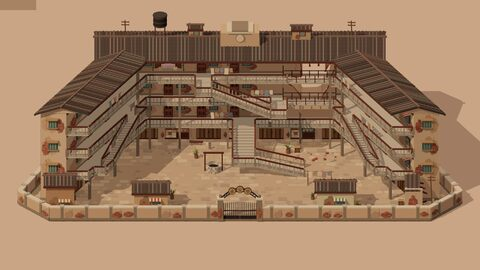
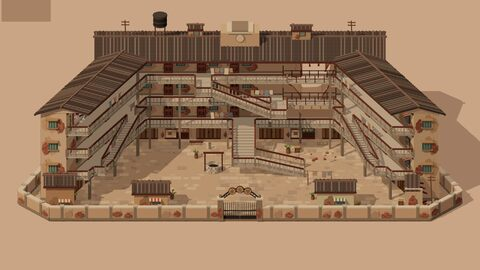
Move the Kung Fu Hustle resident to the west wing window (#78)

diff --git a/areas/kung-fu-hustle/resident.js b/areas/kung-fu-hustle/resident.js
@@ -1,93 +1,189 @@
-import { floorRise, gallery } from './layout.js';
+import { floorRise, gallery, stories, wingSlope, wingX } from './layout.js';
 import { ink } from './masonry.js';
 
-const x = -9.52;
-const z = gallery.rear;
-const sill = floorRise * 3 + .80;
-const head = sill + 2.07;
-const left = x - 1.03;
-const right = x + 1.03;
+const roofPoint = { x: -19.98, y: 13.51, z: 5.76 };
+const wallX = -gallery.outer;
+const z = roofPoint.z;
+const sill = floorRise * (stories - 1) + .80;
+const lintel = Math.min(floorRise * stories - .35, roofPoint.y - .78);
+const halfWidth = 1.03;
+const openingHeight = lintel - sill;
 
 export const residentWindow = {
-  aperture: [[left, sill], [right, sill], [right, head], [left, head]],
+  roofPoint,
+  aperture: [[-z - halfWidth, sill], [-z + halfWidth, sill],
+    [-z + halfWidth, lintel], [-z - halfWidth, lintel]],
 };
 
 export function buildResidentWindow(kit, random) {
-  const { box, oval, leaf, beam, drum } = kit;
-  const frame = kit.wall(x, z, 0);
-  box(0x4d4037, x, (sill + head) / 2, z - 1.14, 2.08, 2.09, .15);
-  frame(ink.stone, 0, sill - .044, .125, 2.31, .17, .54);
-  frame(ink.wood, 0, head + .031, .043, 2.13, .115, .18);
+  const { wall, beam, leaf } = kit;
+  const frame = wall(wallX, z, Math.PI / 2);
+  frame(0x4d4037, 0, sill + openingHeight / 2 - .36, -1.14, 2.12, openingHeight + .74, .15);
+  frame(0x72614e, 0, sill - .823, -.56, 2.07, .045, 1.17);
+  frame(ink.stone, 0, sill - .046, .106, 2.30, .17, .55);
+  frame(ink.wood, 0, lintel + .032, .033, 2.15, .113, .17);
   for (const side of [-1, 1]) {
-    frame(ink.wood, side * 1.015, sill + 1.00, .034, .13, 2.03, .16);
-    const shutter = kit.wall(x + side * 1.39, z + .235, -side * .55);
-    shutter(0x815139, 0, sill + 1.01, 0, .84, 1.91, .11);
+    frame(ink.wood, side * 1.015, sill + openingHeight / 2, .034, .118, openingHeight, .158);
+    const shutter = wall(wallX + .25, z - side * 1.42, Math.PI / 2 - side * .49);
+    shutter(0x815139, 0, sill + openingHeight / 2, 0, .85, openingHeight - .11, .11);
     for (let plank = -2; plank <= 2; plank++) {
-      shutter(plank % 2 ? 0x895a41 : 0x76513c, plank * .151, sill + 1.01, .05, .145, 1.73, .031);
+      shutter(plank % 2 ? 0x895a41 : 0x76513c, plank * .151, sill + openingHeight / 2, .064,
+        .142, openingHeight - .28, .034);
     }
-    for (const y of [.26, 1.68]) shutter(ink.wood, 0, sill + y, .075, .83, .087, .069);
-    beam(0x555a3a, x + side * 2.04, sill - .48, z + .092, x + side * 1.95, head - .22, z + .100, .031);
+    for (const dy of [.27, openingHeight - .28]) {
+      shutter(ink.wood, 0, sill + dy, .097, .83, .084, .055);
+      frame(ink.iron, side * 1.065, sill + dy, .12, .103, .084, .056);
+    }
+    const vineZ = z - side * 1.89;
+    beam(0x555a3a, wallX + .095, sill - .35, vineZ, wallX + .095, lintel - .23, vineZ + .17 * side, .025);
     for (let i = 0; i < 12; i++) {
-      const px = x + side * (1.91 + random() * .23);
-      const py = sill - .38 + i * .18;
-      leaf(i % 2 ? 0x64784f : 0x4d633f, px, py, z + .082 + random() * .055,
-        .16 + random() * .15, .17, .079, .35, 0, side * .65);
+      leaf(i % 2 ? 0x64784f : 0x4d633f, wallX + .095 + random() * .05, sill - .29 + i * .17,
+        vineZ + (random() - .48) * .32, .13, .15, .22, random() * Math.PI, 0, side * .55);
     }
   }
+}
 
-  // The wash line is mounted to the stone outside the shutters.
-  for (const side of [-1, 1]) {
-    beam(ink.wood, x + side * 1.66, sill + .04, z + .08, x + side * 1.37, sill + .40, z + .69, .075);
+function robeGeometry(THREE) {
+  const rings = [
+    [-.62, -.53, .375, .24], [-.37, -.53, .398, .251], [-.12, -.48, .377, .243],
+    [.14, -.38, .321, .236], [.31, -.22, .325, .252], [.49, -.011, .361, .251],
+    [.63, .09, .317, .214], [.71, .13, .162, .138],
+  ];
+  const segments = 16;
+  const vertices = [];
+  const faces = [];
+  for (const [i, [y, z, width, depth]] of rings.entries()) {
+    for (let j = 0; j < segments; j++) {
+      const a = j * Math.PI * 2 / segments;
+      const pleat = 1 + .038 * Math.cos(5 * a) * (1 - i / rings.length);
+      vertices.push(Math.cos(a) * width * pleat, y, z + Math.sin(a) * depth * pleat);
+      if (i === 0) continue;
+      const prev = (i - 1) * segments + j;
+      const next = (i - 1) * segments + (j + 1) % segments;
+      faces.push(prev, prev + segments, next, next, prev + segments, next + segments);
+    }
   }
-  beam(0xa58e70, x - 1.37, sill + .40, z + .69, x + 1.37, sill + .43, z + .69, .022);
-  for (const [offset, height, paint] of [[-1.02, .49, 0xcb9d9b], [.94, .42, 0xd5c7a9]]) {
-    frame(paint, offset, sill + .40 - height / 2, .71, .46, height, .039, -.06, .06);
-    frame(ink.brass, offset + .08, sill + .414, .743, .035, .115, .035);
+  return modelGeometry(THREE, vertices, faces);
+}
+
+function modelGeometry(THREE, vertices, faces) {
+  const geometry = new THREE.BufferGeometry();
+  geometry.setAttribute('position', new THREE.Float32BufferAttribute(vertices, 3));
+  geometry.setIndex(faces);
+  geometry.computeVertexNormals();
+  return geometry;
+}
+
+function buildBra(THREE, kit, hands) {
+  const fabric = 0xe5cfc1;
+  const binding = 0xb18388;
+  const { beam, oval } = kit;
+  const vertices = [];
+  const faces = [];
+  const segments = 14;
+  const bust = .83;
+
+  for (const [side, hand] of hands) {
+    const centerX = side * .305;
+    const centerY = .11 + side * .046;
+    const cup = vertices.length / 3;
+    const edge = [];
+    vertices.push(centerX, centerY, bust + .25);
+    for (const ring of [.55, 1]) {
+      for (let i = 0; i < segments; i++) {
+        const a = i * Math.PI * 2 / segments;
+        const px = centerX + Math.cos(a) * .299 * ring;
+        const py = centerY + (.211 * Math.sin(a) + side * .048 * Math.cos(a)) * ring;
+        const pz = bust + .25 * (1 - ring * ring);
+        vertices.push(px, py, pz);
+        if (ring === 1) edge.push([px, py, pz + .010]);
+      }
+    }
+    for (let i = 0; i < segments; i++) {
+      const next = (i + 1) % segments;
+      const a = cup + 1 + i;
+      const b = cup + 1 + next;
+      faces.push(cup, a, b, a, a + segments, b, b, a + segments, b + segments);
+      beam(binding, ...edge[i], ...edge[next], .020);
+    }
+
+    const top = [side * .46, centerY + .194, bust + .045];
+    const outer = [side * .59, centerY - .041, bust];
+    const fold = [side * .765, hand[1] - .15, hand[2] + .067];
+    beam(fabric, ...top, ...hand, .048);
+    beam(fabric, ...outer, ...fold, .066);
+    beam(binding, ...fold, ...hand, .041);
   }
 
+  kit.mesh('Bra cups', fabric, modelGeometry(THREE, vertices, faces));
+  oval(binding, 0, .097, bust + .034, .154, .089, .068, 0, 0, .12);
+}
+
+export function buildResident(THREE, kit) {
+  const { box, oval, beam, drum } = kit;
   const robe = 0xd3adba;
-  const cuff = 0xe0c8c7;
+  const cuff = 0xe3c7ca;
   const skin = 0xc39173;
   const hair = 0x31252b;
-  const faceZ = z + .400;
+  const yaw = Math.atan2(1, wingSlope);
+  const hands = [[-1, [-.91, .46, .754]], [1, [.91, .69, .76]]];
 
-  function arm(paint, a, b, width) {
-    const [ax, ay, az] = a;
-    const [bx, by, bz] = b;
-    const dx = bx - ax;
-    const dz = bz - az;
-    const dy = by - ay;
-    const flat = Math.hypot(dx, dz);
-    oval(paint, x + (ax + bx) / 2, sill + (ay + by) / 2, z + (az + bz) / 2,
-      Math.hypot(flat, dy) + .12, width, width, Math.atan2(-dz, dx), 0, Math.atan2(dy, flat));
-  }
+  kit.frame(wingX(-1, wallX, z), sill, z, yaw, () => {
+    kit.mesh('Resident full-length robe', robe, robeGeometry(THREE));
+    for (const side of [-1, 1]) {
+      const px = side * .16;
+      oval(skin, px, -.670, -.52, .15, .22, .18);
+      oval(0x674c48, px, -.747, -.47, .18, .10, .31);
+    }
 
-  oval(robe, x, sill + .40, z + .084, .79, .91, .52, 0, -.25, -.065);
-  oval(cuff, x + .026, sill + .66, z + .272, .51, .18, .14, 0, 0, -.17);
-  for (const [i, y] of [.487, .387, .281].entries()) {
-    oval(0xe7cccd, x + .043 - i * .014, sill + y, z + .346 - i * .01, .038, .038, .024);
-  }
-  oval(skin, x + .024, sill + .77, z + .204, .215, .25, .226);
-  for (const side of [-1, 1]) {
-    arm(robe, [side * .28, .60, .137], [side * .62, .45, .41], .225);
-    arm(skin, [side * .61, .46, .40], [side * .86, .40, .69], .131);
-    oval(cuff, x + side * .599, sill + .460, z + .411, .143, .177, .146);
-    oval(skin, x + side * .91, sill + .397, z + .69, .16, .11, .16);
-  }
+    for (const [a, b] of [
+      [[-.225, .628, .255], [0, .537, .235]],
+      [[0, .537, .235], [.192, .669, .255]],
+      [[0, .537, .235], [.017, .443, .246]],
+    ]) beam(cuff, ...a, ...b, .035);
+    for (const [i, y] of [.455, .370, .291].entries()) {
+      oval(cuff, .016, y, .239 - i * .082, .036, .036, .033);
+    }
+    oval(skin, .024, .767, .207, .213, .27, .225);
 
-  oval(hair, x + .018, sill + 1.188, z + .181, .657, .67, .57);
-  oval(skin, x + .027, sill + 1.116, z + .303, .439, .521, .371);
-  for (const side of [-1, 1]) {
-    oval(skin, x + side * .217, sill + 1.10, z + .334, .092, .145, .119);
-    oval(0x3d2b28, x + side * .092 + .024, sill + 1.158, faceZ + .064, .060, .027, .033);
-    box(hair, x + side * .092 + .024, sill + 1.211, faceZ + .066, .079, .017, .023, 0, 0, side * -.16);
-  }
-  oval(0xbd8266, x + .028, sill + 1.111, faceZ + .076, .089, .111, .087);
-  oval(0x88535a, x + .032, sill + 1.026, faceZ + .086, .105, .025, .028, 0, 0, -.11);
-  for (const [i, [px, py]] of [[-.28, 1.12], [-.29, 1.30], [-.22, 1.44], [-.055, 1.48],
-    [.117, 1.47], [.25, 1.37], [.30, 1.21]].entries()) {
-    const color = [0x993c4e, 0xb5914d, 0x8c596e][i % 3];
-    drum(color, x + px, sill + py, z + .352, .142, .104, .142, i % 2 ? .22 : -.22, Math.PI / 2);
-    drum(hair, x + px, sill + py, z + .405, .069, .022, .069, i % 2 ? .22 : -.22, Math.PI / 2);
-  }
+    function arm(paint, a, b, width) {
+      const dx = b[0] - a[0], dy = b[1] - a[1], dz = b[2] - a[2];
+      const run = Math.hypot(dx, dz);
+      oval(paint, (a[0] + b[0]) / 2, (a[1] + b[1]) / 2, (a[2] + b[2]) / 2,
+        Math.hypot(run, dy) + .132, width, width, Math.atan2(-dz, dx), 0, Math.atan2(dy, run));
+    }
+
+    for (const [side, hand] of hands) {
+      const elbow = [side * .592, hand[1] + .042, .404];
+      arm(robe, [side * .267, .615, .142], elbow, .225);
+      arm(skin, elbow, hand, .126);
+      oval(cuff, ...elbow, .145, .178, .151);
+      oval(skin, ...hand, .148, .107, .13, 0, 0, side * .22);
+      oval(0xba8666, hand[0] - side * .040, hand[1] - .018, hand[2] + .053, .071, .052, .061);
+    }
+
+    oval(hair, .018, 1.187, .199, .659, .668, .561);
+    oval(skin, .027, 1.115, .315, .445, .518, .37);
+    for (const side of [-1, 1]) {
+      oval(skin, side * .220, 1.096, .344, .091, .144, .112);
+      oval(0xcaa368, side * .233, 1.042, .402, .041, .045, .028);
+      const eyeX = .026 + side * .091;
+      oval(0x816154, eyeX, 1.161, .480, .084, .040, .045, 0, 0, side * -.09);
+      oval(0xe5c4aa, eyeX, 1.158, .498, .067, .027, .023);
+      oval(0x352725, eyeX - .007, 1.154, .508, .030, .026, .013);
+      oval(hair, eyeX + .004, 1.216, .476, .095, .018, .029, 0, 0, side * -.22);
+    }
+    oval(0xbd8266, .031, 1.108, .486, .088, .110, .093);
+    oval(0x88535a, .025, 1.025, .491, .116, .029, .037, 0, 0, -.122);
+    beam(0xe8dcbd, -.020, 1.026, .508, -.205, .990, .582, .031);
+    beam(0x6f655f, -.205, .990, .582, -.238, .984, .595, .028);
+    for (const [i, [x, y]] of [[-.28, 1.12], [-.29, 1.30], [-.22, 1.44], [-.055, 1.48],
+      [.117, 1.47], [.25, 1.37], [.30, 1.21]].entries()) {
+      const paint = [0x993c4e, 0xb5914d, 0x8c596e][i % 3];
+      drum(paint, x, y, .365, .142, .104, .142, i % 2 ? .22 : -.22, Math.PI / 2);
+      drum(hair, x, y, .419, .069, .022, .069, i % 2 ? .22 : -.22, Math.PI / 2);
+    }
+
+    buildBra(THREE, kit, hands);
+  });
 }

diff --git a/areas/kung-fu-hustle/scene.js b/areas/kung-fu-hustle/scene.js
@@ -2,7 +2,7 @@ import { seededRandom } from '../../core/random.js';
 import { damagedRearWall } from './damage.js';
 import { courtyard } from './courtyard.js';
 import { marketRow } from './market.js';
-import { buildResidentWindow } from './resident.js';
+import { buildResident, buildResidentWindow, residentWindow } from './resident.js';
 import { floorRise, gallery, stair, stories, wingX } from './layout.js';
 import { crack, exposedBrick, ink, laundry, masonryKit, roof } from './masonry.js';
 
@@ -35,7 +35,7 @@ function doorsAndWindows(face, x, y, hasAwning, hasDoor) {
   }
 }
 
-function apartmentFacade(draw, span, bays, random, damaged = false) {
+function apartmentFacade(draw, span, bays, random, { damaged = false, occupiedWindow = false } = {}) {
   const spacing = span / bays;
   for (let level = 1; level < stories; level++) {
     const y = level * floorRise;
@@ -46,7 +46,8 @@ function apartmentFacade(draw, span, bays, random, damaged = false) {
     }
     for (let bay = 0; bay < bays; bay++) {
       const center = -span / 2 + (bay + .5) * spacing;
-      if (damaged && (center > 4.1 || (level === stories - 1 && bay === 1))) continue;
+      if (damaged && center > 4.1) continue;
+      if (occupiedWindow && level === stories - 1 && bay === 0) continue;
       draw.chip(bay % 2 ? 0x9d826c : 0xab8c72, center + .29, y + 1.03, .012, spacing * .86, 2.08, .11);
       if ((bay + level) % 3 !== 1) {
         exposedBrick(draw, center + (bay % 2 ? 1.55 : -.40), y + .78 + random() * .32,
@@ -70,8 +71,7 @@ function tenement(kit, layout, random) {
   const wingsZ = -1;
   damagedRearWall(kit, layout, height, random);
   marketRow(kit, layout, { x: 0, z: gallery.rear, yaw: 0, span: 37.5, bays: 9, depth: 4.3 }, random);
-  buildResidentWindow(kit, random);
-  apartmentFacade(wall(0, gallery.rear, 0), gallery.outer * 2, 7, random, true);
+  apartmentFacade(wall(0, gallery.rear, 0), gallery.outer * 2, 7, random, { damaged: true });
   for (const x of [-11.95, -8, -1.60, 8, 11.95]) {
     const postHeight = x === -1.60 ? height : floorRise * (x === 8 ? 2 : 3) - .09;
     box(ink.band, x, postHeight / 2, -7.59, .28, postHeight, .30);
@@ -95,7 +95,14 @@ function tenement(kit, layout, random) {
   for (const side of [-1, 1]) {
     kit.gable(ink.cream, side * 18.75, height - .04, -11.65, 8.8, 1.33, .13, -side * Math.PI / 2);
     kit.wing(side, () => {
-      box(side > 0 ? 0xc3a88b : 0xbba189, side * sideX, (height + floorRise) / 2, wingsZ, 3.4, height - floorRise, 19);
+      if (side < 0) {
+        kit.extrude('West wing wall', 0xbba189,
+          [[-gallery.front, floorRise], [-gallery.rear, floorRise], [-gallery.rear, height], [-gallery.front, height]],
+          3.4, -18.75, 0, 0, Math.PI / 2, [residentWindow.aperture]);
+        buildResidentWindow(kit, random);
+      } else {
+        box(0xc3a88b, sideX, (height + floorRise) / 2, wingsZ, 3.4, height - floorRise, 19);
+      }
       const yaw = -side * Math.PI / 2;
       marketRow(kit, layout, { x: side * gallery.outer, z: wingsZ, yaw, span: 19, bays: 4, depth: 3.4, side }, random);
       layout.addBarrier((x, z, radius, feet) => {
@@ -103,7 +110,7 @@ function tenement(kit, layout, random) {
         return feet >= floorRise && feet < height && z >= gallery.rear - radius && z <= gallery.front + radius &&
           wallX >= gallery.outer - radius && wallX <= 18.75 + radius;
       });
-      apartmentFacade(wall(side * gallery.outer, wingsZ, -side * Math.PI / 2), 19, 4, random);
+      apartmentFacade(wall(side * gallery.outer, wingsZ, -side * Math.PI / 2), 19, 4, random, { occupiedWindow: side < 0 });
       const outer = wall(side * 18.75, wingsZ, side * Math.PI / 2);
       for (const z of [-6.4, -1.9, 3.1, 6.4]) {
         exposedBrick(outer, z, 1.9 + random() * 7, 2.6, 2.5, random);
@@ -256,6 +263,7 @@ export function buildCourtyard(THREE, scene, layout, touch) {
   scene.add(sun);
 
   tenement(kit, layout, random);
+  buildResident(THREE, kit);
   walkways(kit, layout);
   courtyard(kit, layout, random);
 

diff --git a/areas/kung-fu-hustle/damage.js b/areas/kung-fu-hustle/damage.js
@@ -1,6 +1,5 @@
 import { floorRise, gallery } from './layout.js';
 import { crack, ink } from './masonry.js';
-import { residentWindow } from './resident.js';
 
 const rearZ = -14.8;
 const opening = [
@@ -26,7 +25,7 @@ function insideOpening(x, y) {
 export function damagedRearWall(kit, layout, height, random) {
   kit.extrude('Hand-shaped breach', ink.plaster,
     [[-18.75, floorRise], [18.75, floorRise], [18.75, height], [-18.75, height]],
-    gallery.rear - rearZ, 0, 0, rearZ, 0, [opening, residentWindow.aperture]);
+    gallery.rear - rearZ, 0, 0, rearZ, 0, [opening]);
   layout.addBarrier((x, z, radius, feet) => {
     if (Math.abs(x) > 18.75 + radius || z < rearZ - radius || z > gallery.rear + radius || feet < floorRise || feet >= height) return false;
     if (x < 6 || x > 12.5 || feet < 5.55) return true;

diff --git a/areas/kung-fu-hustle/masonry.js b/areas/kung-fu-hustle/masonry.js
@@ -93,6 +93,14 @@ export function masonryKit(THREE, scene) {
       geometry.name = name;
       place(geometry, paint, x, y, z, 1, 1, 1, yaw);
     },
+    mesh(name, paint, geometry) {
+      geometry.name = name;
+      place(geometry, paint, 0, 0, 0, 1, 1, 1);
+    },
+    frame(x, y, z, yaw, draw) {
+      projection.makeRotationY(yaw).setPosition(x, y, z);
+      try { draw(); } finally { projection.identity(); }
+    },
     oval(...args) { place(ovalGeometry, ...args); },
     leaf(...args) { place(leafGeometry, ...args); },
     gateLetter(letter, x, y, z) {

diff --git a/sw.js b/sw.js
@@ -1,2 +1,2 @@
-// Generated by scripts/generate-pwa-manifest.mjs for release 0839a5e5d62961d210c415724aa0cd3913a328aae7bddb341385d2be9d5d3cf1.
+// Generated by scripts/generate-pwa-manifest.mjs for release 90e7ecbb094d85409fb8beee9d44c7dbb02b6822439a4e7c11c5d71b8c75f41f.
 import './pwa/worker.js';
